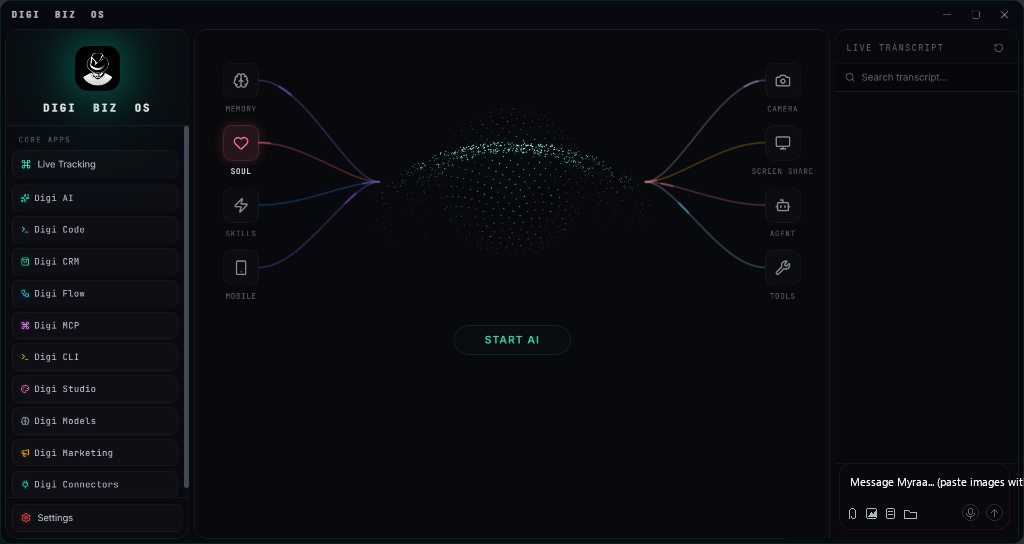
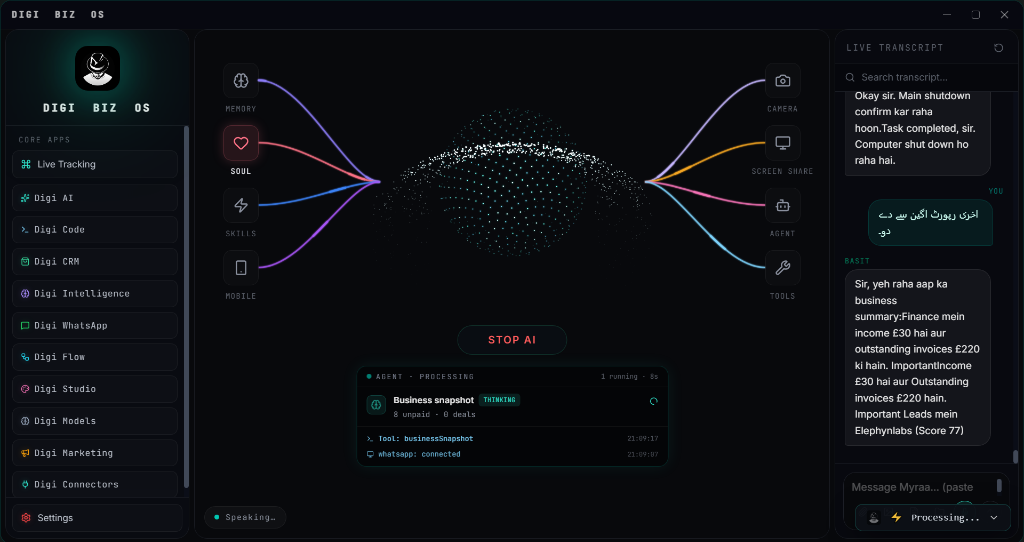
feat(assets): replace Digi Biz OS main dashboard with latest 11 Core Apps UI screenshot

diff --git a/src/pages/SoftwareDevelopment.tsx b/src/pages/SoftwareDevelopment.tsx
@@ -205,7 +205,7 @@ export default function SoftwareDevelopment() {
       title: "Universal AI Business Dashboard",
       tag: "Main Dashboard",
       badge: "Desktop Core",
-      desc: "Central command center with real-time neural reasoning status, multi-module telemetry, quick launch shortcuts, and universal voice control across all enterprise operations.",
+      desc: "Central command center featuring the complete 11 Core Apps suite (Live Tracking, Digi AI, Digi Code, Digi CRM, Digi Intelligence, Digi WhatsApp, Digi Flow, Digi Studio, Digi Models, Digi Marketing, Digi Connectors), real-time neural reasoning, and live transcript streaming.",
       image: osDashboard,
     },
     {
